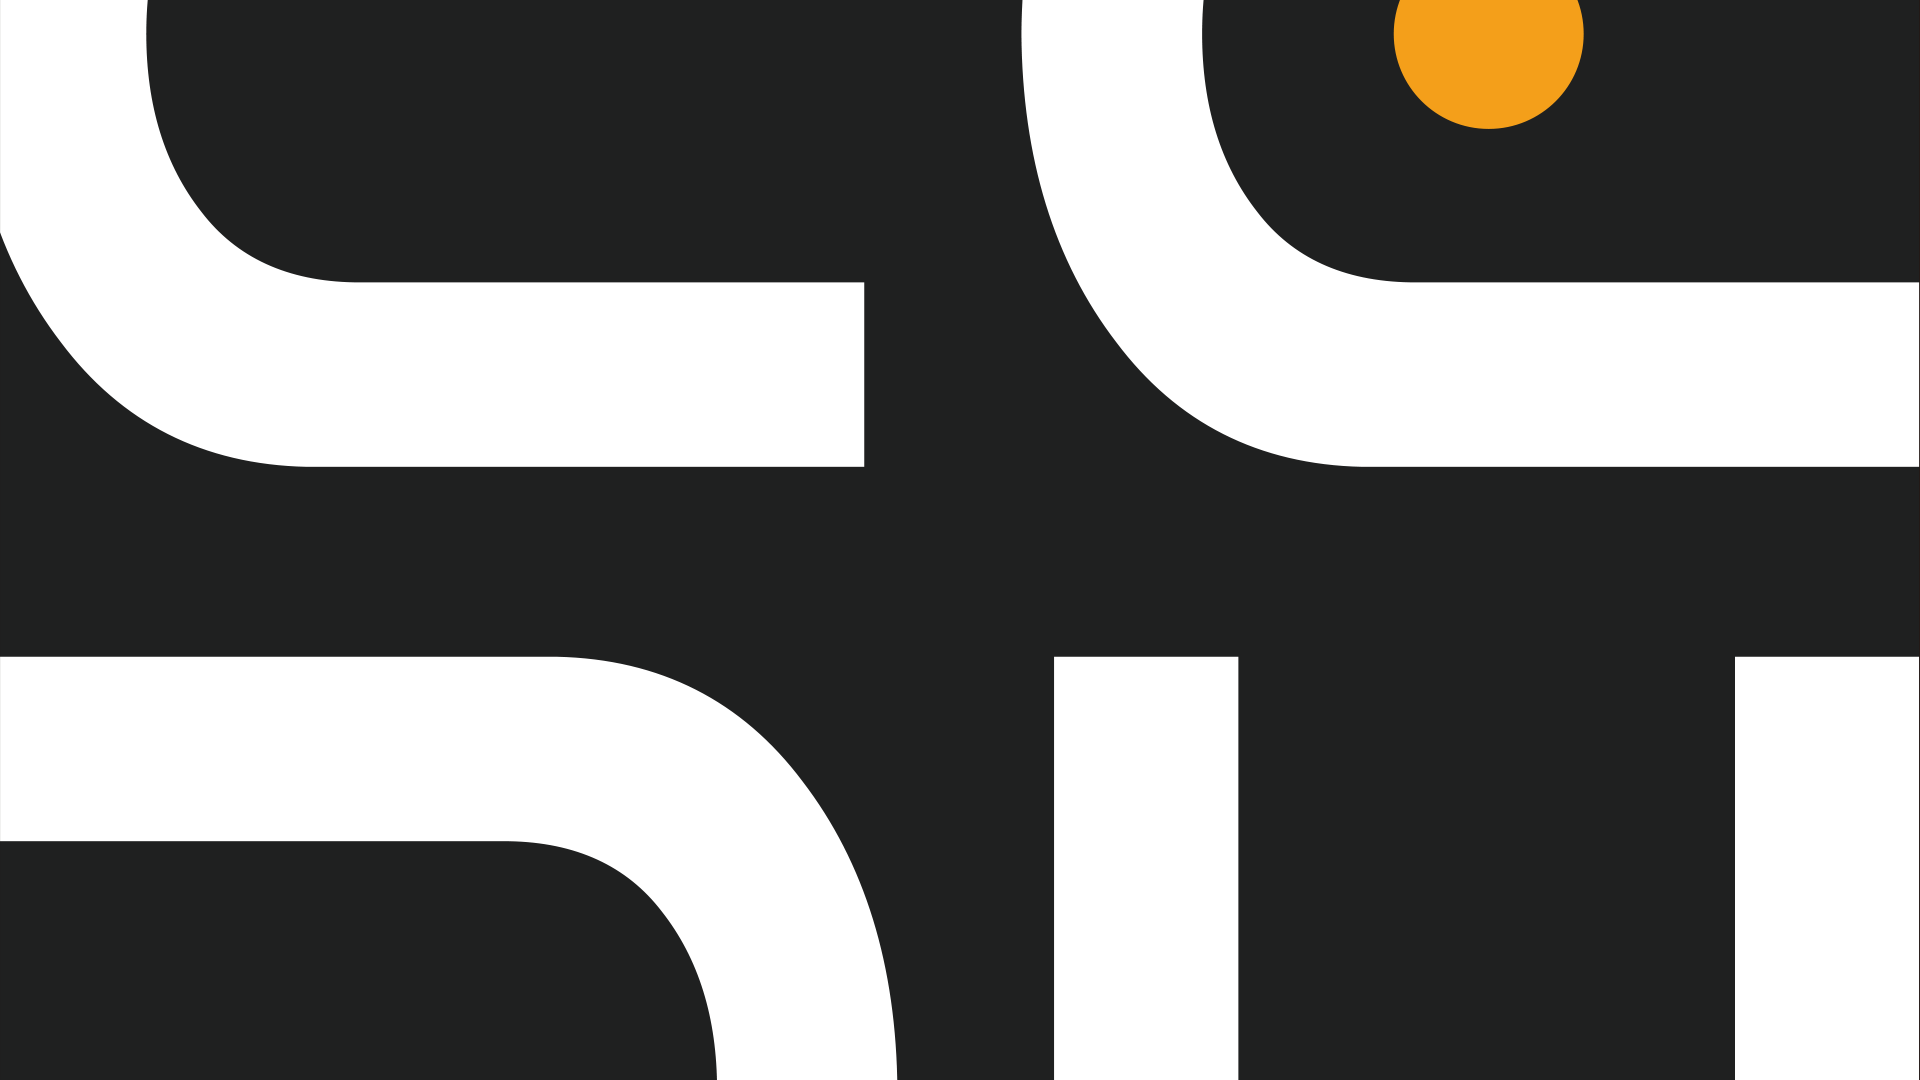
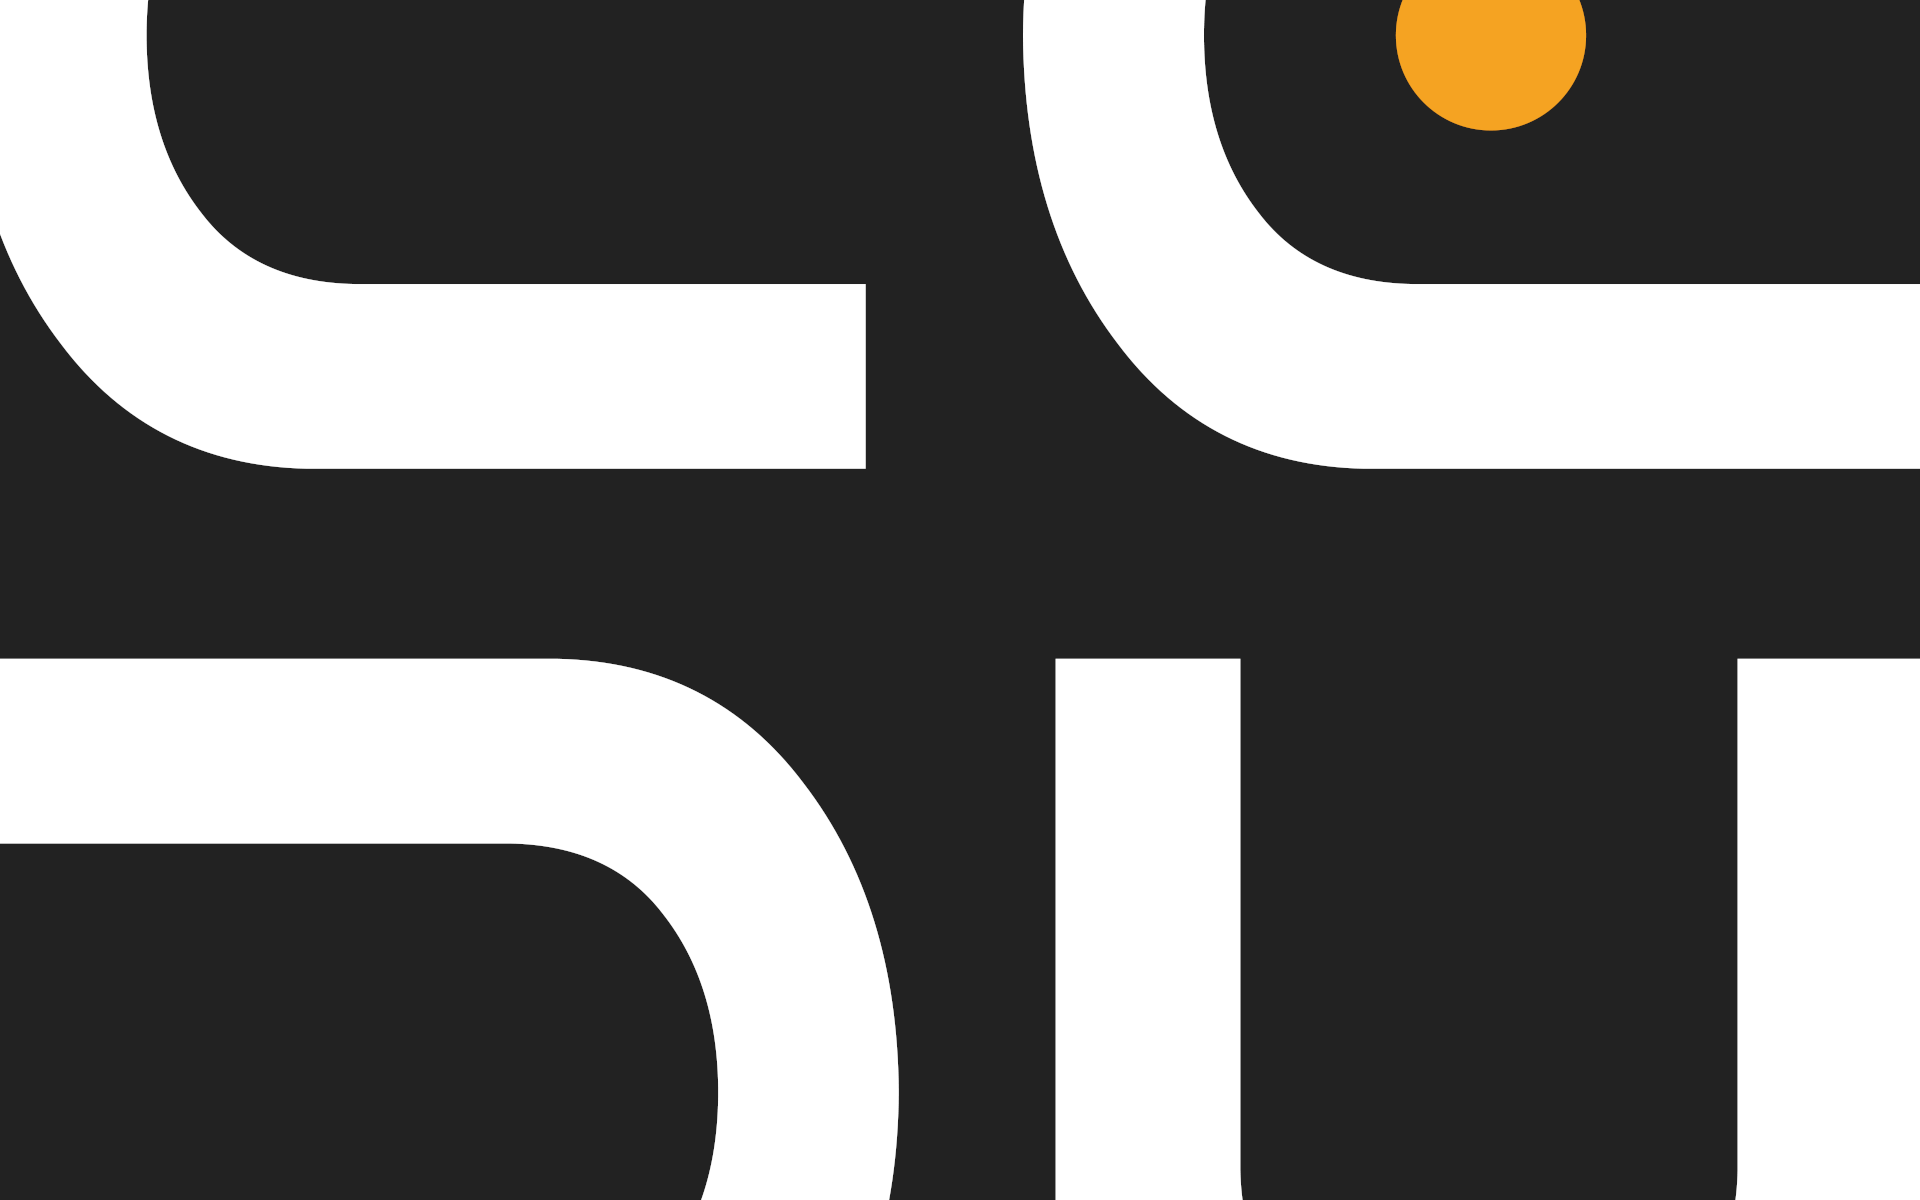
white-bgの追加など
<css>
- "@media"の変更
- black-bgの追加
- white-bgの追加

<html>
- head>titleの追加
- contents内bgの追加

- img/bg.pngの変更
- img/bg-length.pngの追加

diff --git a/index.html b/index.html
@@ -1,6 +1,7 @@
 <!DOCTYPE HTML>
 
 <head>
+<title>Kohei Yamamoto</title>
 <link href="css/main.css" rel="stylesheet">
 <link rel="icon" href="img/favicon.ico">
 </head>
@@ -9,16 +10,57 @@
 	<!-- home background-->
 	<img class="bg-img" src="img/bg.png" alt="" />
 
-	<!-- button -->
-	<section class="btn">
-		<div class="btn-left">
-			<a href="#about">About</a>
-		</div>
-		<div class="btn-right">
-			<a href="#story">Story</a>
-		</div>
-		<div class="btn-bottom">
-			<a href="#activity">Activity</a>
-		</div>
+		<!-- button -->
+		<section class="btn">
+			<div class="btn-left">
+				<a href="#about">About</a>
+			</div>
+			<div class="btn-right">
+				<a href="#story">Story</a>
+			</div>
+			<div class="btn-bottom">
+				<a href="#activity">Activity</a>
+			</div>
+		</section>
+
+
+
+
+	<!-- contents -->
+	<section id="main" style="display: flex;">
+		<p> </p>
+
+
+		<!-- about -->
+		<article id="about" style="display: none;">
+			<div class="white">
+				<p> </p>
+			</div>
+			<div class="contents">
+				
+			</div>
+		</article>
+
+
+		<!-- story -->
+		<article id="story" style="display: none;">
+			<div class=white>
+				<p> </p>
+			</div>
+			<div class="contents">
+				
+			</div>
+		</article>
+
+
+		<!-- activity -->
+		<article id="activity" style="display: block;">
+			<div class="white shadow-right shadow-left">
+				<p> </p>
+			</div>
+			<div class="contents">
+
+			</div>
+		</article>
 	</section>
 </body>

diff --git a/css/main.css b/css/main.css
@@ -1,4 +1,4 @@
-@media (min-width: 1024px){
+@media (min-aspect-ratio: 8/5){
 
 	/* General */
 	html,body {
@@ -35,5 +35,61 @@
 		text-align: right;
 		clear: both;
 		padding: 17% 45.7% 0% 0%;
+	}
+
+	/* contents base */
+	#main {
+		background-color: rgba(0,0,0,0.3);
+		position: fixed;
+		padding-bottom: 62.5%;
+		top: 0;
+		right: 0;
+		bottom: 0;
+		left: 0;
+		z-index: 1;
+	}
+
+	.white {
+		width: 88%;
+		padding-bottom: 61.9%;
+		position: fixed;		
+		background-color: rgba(255,255,255,0.96);
+	}
+
+	/* about */
+	#about {
+	}
+
+	#about　.white {
+		right: 0;
+		box-shadow: 0px -10px 99px;
+	}
+
+	/* story */
+	#story {
+	}
+
+	#story .white {
+		left: 0;
+		box-shadow: 0px 10px 99px;
+	}
+
+	/* activity */
+	#activity {
+
+	}
+
+	#activity .white {
+		right: 0;
+		left: 0;
+		margin: auto;
+	}
+
+	#activity .white.shadow-right {
+		box-shadow: 0px 10px 70px
+	}
+
+	#activity .white.shadow-left {
+		box-shadow: 0px -10px 70px
 	}
 }
